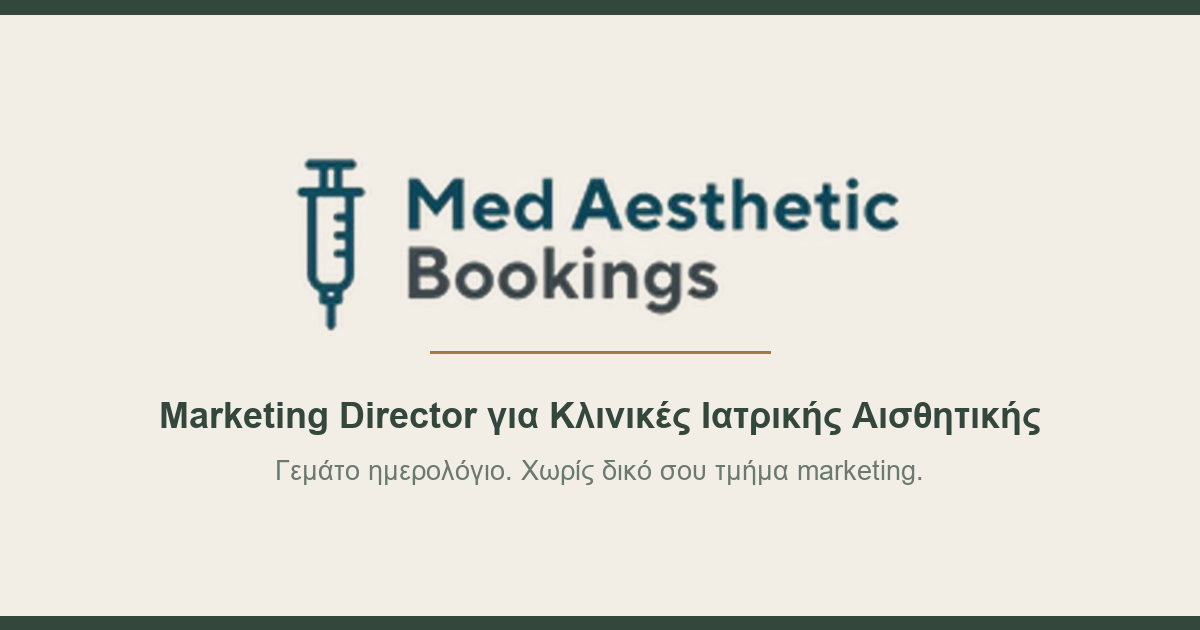
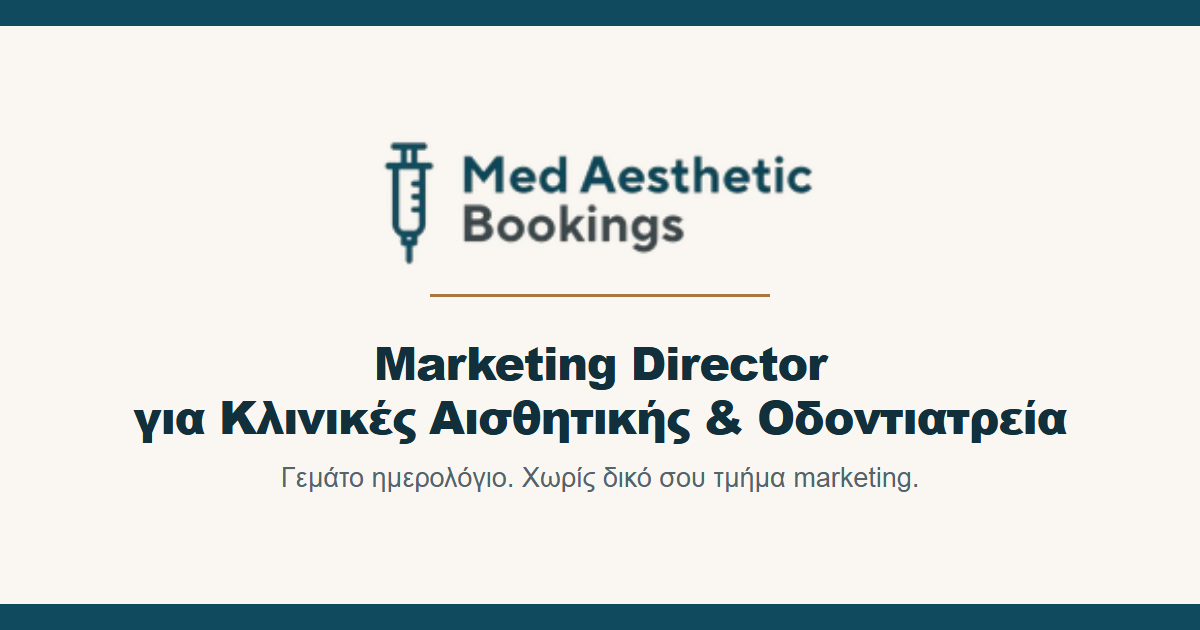
Share card: name dentists too
The page title and og:title already said "Κλινικές Αισθητικής & Οδοντιατρεία",
but the preview image had only "Κλινικές Ιατρικής Αισθητικής" baked into it.
Anyone who saw the link shared read half the offer, and the half that is
currently cheaper to sell was the half missing.

Rebuilt at 1200x630 in the current palette (the old card still used the
retired sage green, so it no longer matched the site it linked to).

Published as share-card-v2.png rather than overwriting: Facebook caches an
og:image by URL, so a new filename is the only reliable way to make it
re-fetch. The old file stays for links already shared.

diff --git a/index.html b/index.html
@@ -11,11 +11,11 @@
 <meta property="og:description" content="Κλινικές αισθητικής και οδοντιατρεία: δεν σου πουλάω leads. Στήνω το σύστημα που τα μετατρέπει σε ραντεβού, από 1 σε 5 υποκαταστήματα σε δύο χρόνια.">
 <meta property="og:locale" content="el_GR">
 <meta property="og:url" content="https://medaestheticbookings.com/">
-<meta property="og:image" content="https://medaestheticbookings.com/share-card.png">
+<meta property="og:image" content="https://medaestheticbookings.com/share-card-v2.png">
 <meta property="og:image:width" content="1200">
 <meta property="og:image:height" content="630">
 <meta name="twitter:card" content="summary_large_image">
-<meta name="twitter:image" content="https://medaestheticbookings.com/share-card.png">
+<meta name="twitter:image" content="https://medaestheticbookings.com/share-card-v2.png">
 <link rel="canonical" href="https://medaestheticbookings.com/">
 <link rel="alternate" hreflang="el-GR" href="https://medaestheticbookings.com/">
 <link rel="alternate" hreflang="x-default" href="https://medaestheticbookings.com/">
@@ -344,7 +344,7 @@
 try{ if(localStorage.getItem('map_consent') === 'yes') window.loadPixel(); }catch(e){}
 })();
 </script>
-<script type="application/ld+json">{"@context": "https://schema.org", "@graph": [{"@type": "ProfessionalService", "@id": "https://medaestheticbookings.com/#org", "name": "Med Aesthetic Bookings", "alternateName": "Μάρκος Χριστοδούλου, Marketing για Κλινικές Αισθητικής", "description": "Διαφημίσεις Meta, προσφορά, script κλήσης και follow-up για κλινικές ιατρικής αισθητικής και οδοντιατρεία με αισθητικές θεραπείες, σε όλη την Ελλάδα.", "url": "https://medaestheticbookings.com/", "logo": "https://medaestheticbookings.com/img/logo.png", "image": "https://medaestheticbookings.com/share-card.png", "email": "medaestheticbooking@outlook.com", "telephone": "+35799251181", "priceRange": "€€€", "founder": {"@id": "https://medaestheticbookings.com/#marco"}, "sameAs": ["https://www.instagram.com/medaestheticbookings/"], "areaServed": [{"@type": "Country", "name": "Ελλάδα"}, {"@type": "City", "name": "Αθήνα"}, {"@type": "City", "name": "Θεσσαλονίκη"}, {"@type": "City", "name": "Πειραιάς"}, {"@type": "City", "name": "Πάτρα"}, {"@type": "City", "name": "Ηράκλειο"}, {"@type": "City", "name": "Λάρισα"}], "knowsAbout": ["marketing για κλινικές αισθητικής", "διαφημίσεις για οδοντιατρεία", "λεύκανση δοντιών marketing", "laser αποτρίχωση διαφήμιση", "Meta ads κλινικές", "lead generation ιατρική αισθητική"], "hasOfferCatalog": {"@type": "OfferCatalog", "name": "Υπηρεσίες", "itemListElement": [{"@type": "Offer", "itemOffered": {"@type": "Service", "name": "Στρατηγική & προσφορά"}}, {"@type": "Offer", "itemOffered": {"@type": "Service", "name": "Διαφημίσεις Meta"}}, {"@type": "Offer", "itemOffered": {"@type": "Service", "name": "Script κλήσης & follow-up"}}, {"@type": "Offer", "itemOffered": {"@type": "Service", "name": "Εβδομαδιαία διαχείριση"}}, {"@type": "Offer", "itemOffered": {"@type": "Service", "name": "Αναφορά & ευθύνη"}}]}}, {"@type": "Person", "@id": "https://medaestheticbookings.com/#marco", "name": "Μάρκος Χριστοδούλου", "image": "https://medaestheticbookings.com/img/marco.jpg", "jobTitle": "Marketing Director", "worksFor": {"@id": "https://medaestheticbookings.com/#org"}, "url": "https://medaestheticbookings.com/", "sameAs": ["https://www.instagram.com/medaestheticbookings/"], "alternateName": "Marco Christodoulou"}, {"@type": "WebSite", "@id": "https://medaestheticbookings.com/#website", "url": "https://medaestheticbookings.com/", "name": "Med Aesthetic Bookings", "inLanguage": "el", "publisher": {"@id": "https://medaestheticbookings.com/#org"}}, {"@type": "WebPage", "@id": "https://medaestheticbookings.com/#webpage", "url": "https://medaestheticbookings.com/", "isPartOf": {"@id": "https://medaestheticbookings.com/#website"}, "about": {"@id": "https://medaestheticbookings.com/#org"}, "inLanguage": "el"}, {"@type": "FAQPage", "@id": "https://medaestheticbookings.com/#faq", "mainEntity": [{"@type": "Question", "name": "Χρειάζεται να τρέχω ήδη διαφημίσεις;", "acceptedAnswer": {"@type": "Answer", "text": "Όχι. Αν δεν τρέχεις, στήνουμε από την αρχή. Αν τρέχεις, ξεκινάω από το τι ήδη υπάρχει και τι από αυτό αξίζει να κρατηθεί."}}, {"@type": "Question", "name": "Δουλεύεις και με οδοντιατρεία;", "acceptedAnswer": {"@type": "Answer", "text": "Ναι, με οδοντιατρεία που κάνουν λεύκανση, όψεις και αισθητική αποκατάσταση. Είναι ο ίδιος τύπος αγοράς με την ιατρική αισθητική: ο ασθενής αγοράζει αποτέλεσμα, όχι θεραπεία, και η απόφαση παίρνεται στα πρώτα λεπτά μετά το lead."}}, {"@type": "Question", "name": "Είναι ειδικά για αισθητική;", "acceptedAnswer": {"@type": "Answer", "text": "Ναι. Δουλεύω μόνο με κλινικές ιατρικής αισθητικής και οδοντιατρεία με αισθητικές θεραπείες, γι' αυτό ξέρω ποια θεραπεία συμπεριφέρεται πώς μέσα στο funnel. Γενική οδοντιατρική ή γενικό ιατρείο δεν αναλαμβάνω."}}, {"@type": "Question", "name": "Τι γίνεται αν δεν έχω προσωπικό marketing;", "acceptedAnswer": {"@type": "Answer", "text": "Δεν χρειάζεται. Αυτό ακριβώς αναλαμβάνω. Είμαι ο υπεύθυνος marketing σου χωρίς να χρειαστεί να στήσεις τμήμα."}}, {"@type": "Question", "name": "Πόσο κοστίζει;", "acceptedAnswer": {"@type": "Answer", "text": "Εξαρτάται από το μέγεθος της κλινικής και το εύρος της δουλειάς. Το συζητάμε στην κλήση, αφού δω πρώτα πού χάνεις ραντεβού, δεν δίνω τιμή πριν ξέρω τι χρειάζεται."}}, {"@type": "Question", "name": "Δουλεύεις σε όλη την Ελλάδα;", "acceptedAnswer": {"@type": "Answer", "text": "Ναι, η συνεργασία γίνεται εξ αποστάσεως, οπότε ισχύει το ίδιο για Αθήνα, Θεσσαλονίκη ή οποιαδήποτε άλλη πόλη. Σε κάθε περιοχή όμως παίρνω μία μόνο κλινική και ένα μόνο οδοντιατρείο."}}]}]}</script>
+<script type="application/ld+json">{"@context": "https://schema.org", "@graph": [{"@type": "ProfessionalService", "@id": "https://medaestheticbookings.com/#org", "name": "Med Aesthetic Bookings", "alternateName": "Μάρκος Χριστοδούλου, Marketing για Κλινικές Αισθητικής", "description": "Διαφημίσεις Meta, προσφορά, script κλήσης και follow-up για κλινικές ιατρικής αισθητικής και οδοντιατρεία με αισθητικές θεραπείες, σε όλη την Ελλάδα.", "url": "https://medaestheticbookings.com/", "logo": "https://medaestheticbookings.com/img/logo.png", "image": "https://medaestheticbookings.com/share-card-v2.png", "email": "medaestheticbooking@outlook.com", "telephone": "+35799251181", "priceRange": "€€€", "founder": {"@id": "https://medaestheticbookings.com/#marco"}, "sameAs": ["https://www.instagram.com/medaestheticbookings/"], "areaServed": [{"@type": "Country", "name": "Ελλάδα"}, {"@type": "City", "name": "Αθήνα"}, {"@type": "City", "name": "Θεσσαλονίκη"}, {"@type": "City", "name": "Πειραιάς"}, {"@type": "City", "name": "Πάτρα"}, {"@type": "City", "name": "Ηράκλειο"}, {"@type": "City", "name": "Λάρισα"}], "knowsAbout": ["marketing για κλινικές αισθητικής", "διαφημίσεις για οδοντιατρεία", "λεύκανση δοντιών marketing", "laser αποτρίχωση διαφήμιση", "Meta ads κλινικές", "lead generation ιατρική αισθητική"], "hasOfferCatalog": {"@type": "OfferCatalog", "name": "Υπηρεσίες", "itemListElement": [{"@type": "Offer", "itemOffered": {"@type": "Service", "name": "Στρατηγική & προσφορά"}}, {"@type": "Offer", "itemOffered": {"@type": "Service", "name": "Διαφημίσεις Meta"}}, {"@type": "Offer", "itemOffered": {"@type": "Service", "name": "Script κλήσης & follow-up"}}, {"@type": "Offer", "itemOffered": {"@type": "Service", "name": "Εβδομαδιαία διαχείριση"}}, {"@type": "Offer", "itemOffered": {"@type": "Service", "name": "Αναφορά & ευθύνη"}}]}}, {"@type": "Person", "@id": "https://medaestheticbookings.com/#marco", "name": "Μάρκος Χριστοδούλου", "image": "https://medaestheticbookings.com/img/marco.jpg", "jobTitle": "Marketing Director", "worksFor": {"@id": "https://medaestheticbookings.com/#org"}, "url": "https://medaestheticbookings.com/", "sameAs": ["https://www.instagram.com/medaestheticbookings/"], "alternateName": "Marco Christodoulou"}, {"@type": "WebSite", "@id": "https://medaestheticbookings.com/#website", "url": "https://medaestheticbookings.com/", "name": "Med Aesthetic Bookings", "inLanguage": "el", "publisher": {"@id": "https://medaestheticbookings.com/#org"}}, {"@type": "WebPage", "@id": "https://medaestheticbookings.com/#webpage", "url": "https://medaestheticbookings.com/", "isPartOf": {"@id": "https://medaestheticbookings.com/#website"}, "about": {"@id": "https://medaestheticbookings.com/#org"}, "inLanguage": "el"}, {"@type": "FAQPage", "@id": "https://medaestheticbookings.com/#faq", "mainEntity": [{"@type": "Question", "name": "Χρειάζεται να τρέχω ήδη διαφημίσεις;", "acceptedAnswer": {"@type": "Answer", "text": "Όχι. Αν δεν τρέχεις, στήνουμε από την αρχή. Αν τρέχεις, ξεκινάω από το τι ήδη υπάρχει και τι από αυτό αξίζει να κρατηθεί."}}, {"@type": "Question", "name": "Δουλεύεις και με οδοντιατρεία;", "acceptedAnswer": {"@type": "Answer", "text": "Ναι, με οδοντιατρεία που κάνουν λεύκανση, όψεις και αισθητική αποκατάσταση. Είναι ο ίδιος τύπος αγοράς με την ιατρική αισθητική: ο ασθενής αγοράζει αποτέλεσμα, όχι θεραπεία, και η απόφαση παίρνεται στα πρώτα λεπτά μετά το lead."}}, {"@type": "Question", "name": "Είναι ειδικά για αισθητική;", "acceptedAnswer": {"@type": "Answer", "text": "Ναι. Δουλεύω μόνο με κλινικές ιατρικής αισθητικής και οδοντιατρεία με αισθητικές θεραπείες, γι' αυτό ξέρω ποια θεραπεία συμπεριφέρεται πώς μέσα στο funnel. Γενική οδοντιατρική ή γενικό ιατρείο δεν αναλαμβάνω."}}, {"@type": "Question", "name": "Τι γίνεται αν δεν έχω προσωπικό marketing;", "acceptedAnswer": {"@type": "Answer", "text": "Δεν χρειάζεται. Αυτό ακριβώς αναλαμβάνω. Είμαι ο υπεύθυνος marketing σου χωρίς να χρειαστεί να στήσεις τμήμα."}}, {"@type": "Question", "name": "Πόσο κοστίζει;", "acceptedAnswer": {"@type": "Answer", "text": "Εξαρτάται από το μέγεθος της κλινικής και το εύρος της δουλειάς. Το συζητάμε στην κλήση, αφού δω πρώτα πού χάνεις ραντεβού, δεν δίνω τιμή πριν ξέρω τι χρειάζεται."}}, {"@type": "Question", "name": "Δουλεύεις σε όλη την Ελλάδα;", "acceptedAnswer": {"@type": "Answer", "text": "Ναι, η συνεργασία γίνεται εξ αποστάσεως, οπότε ισχύει το ίδιο για Αθήνα, Θεσσαλονίκη ή οποιαδήποτε άλλη πόλη. Σε κάθε περιοχή όμως παίρνω μία μόνο κλινική και ένα μόνο οδοντιατρείο."}}]}]}</script>
 </head>
 <body>
 
